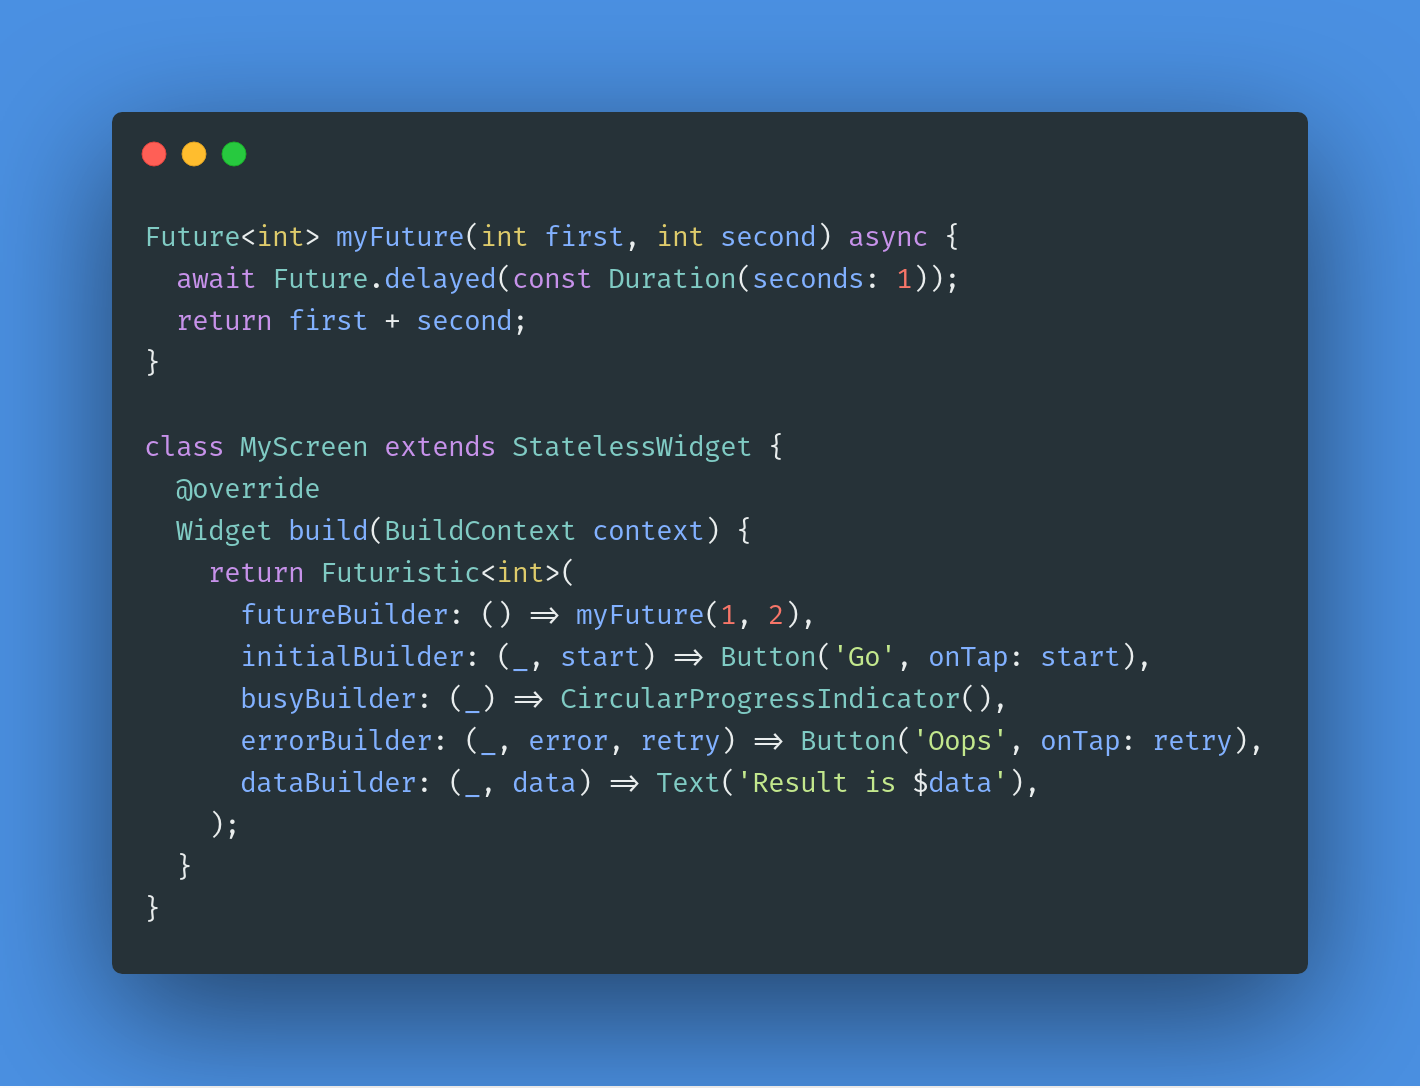
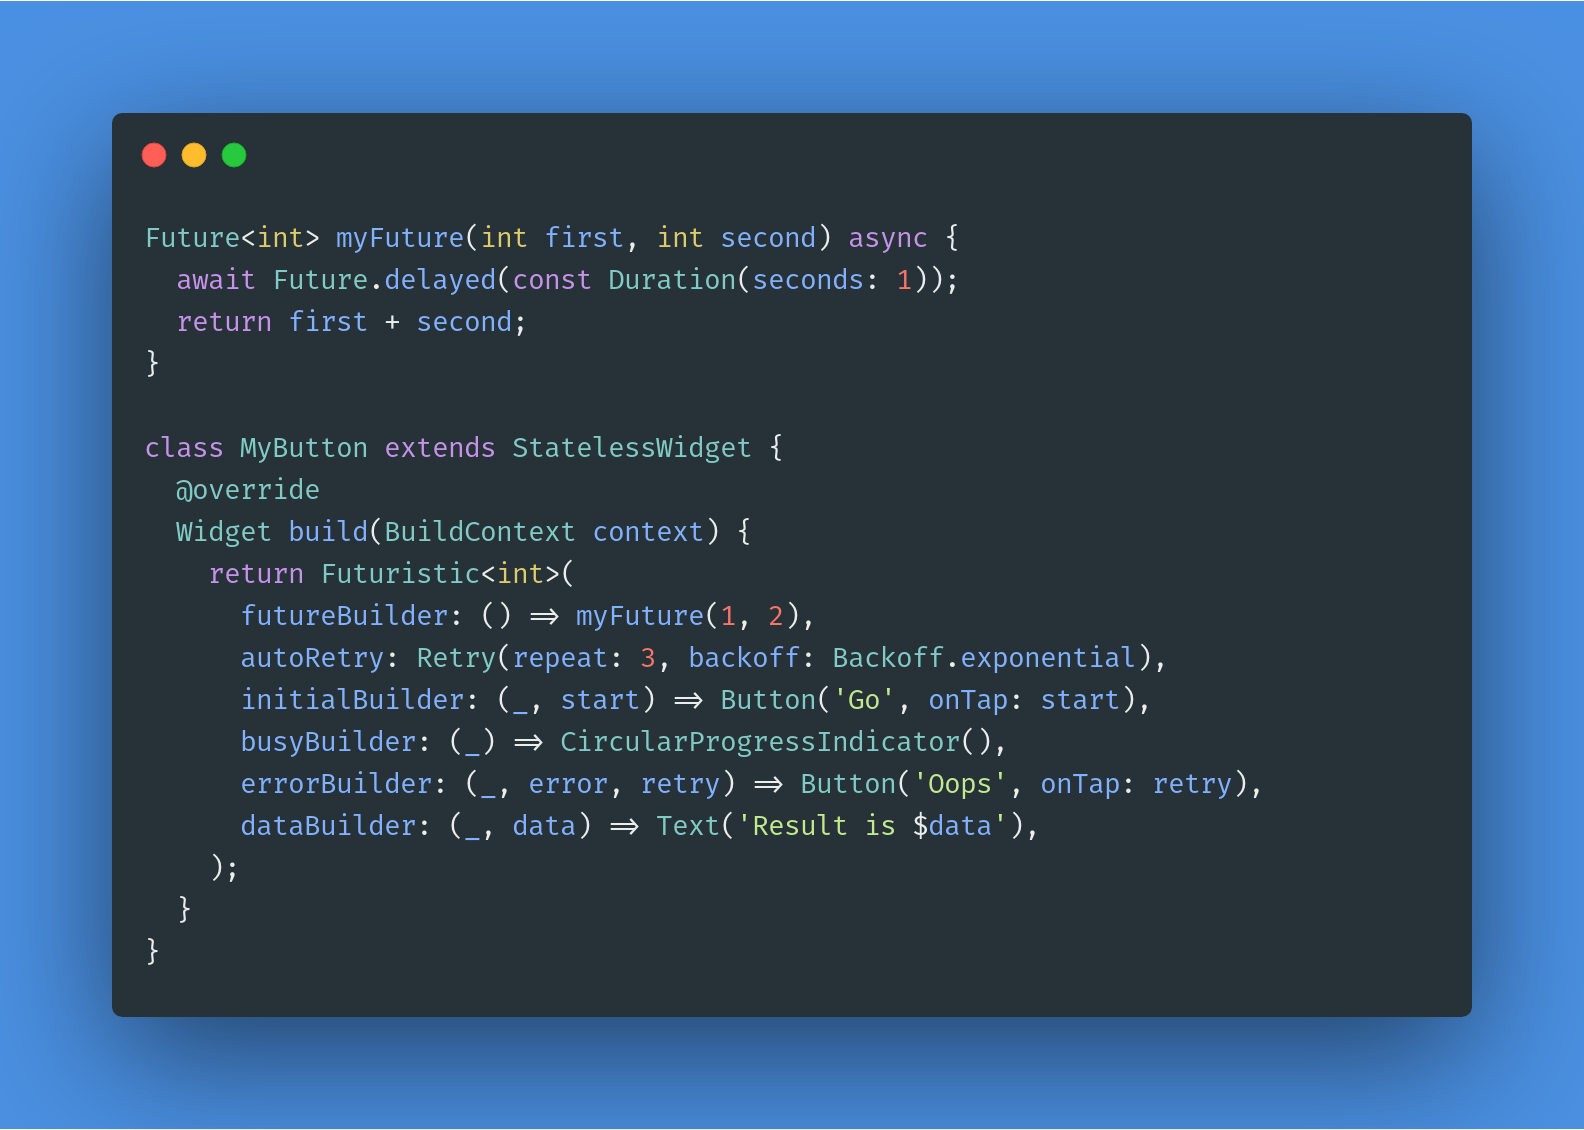
Updated screenshot and readme to include retry

Changed region(s): [[0.062, 0.0938, 0.9296, 0.9062], [0.1239, 0.75, 0.1549, 0.7812]]

diff --git a/README.md b/README.md
@@ -55,7 +55,7 @@ class _HomeState extends State<Home> {
 
 ## Solution
 
-The problem with `FutureBuilder` is, ironically, that it takes a `Future` instance as its input. Instead, the `Futuristic` widget takes a `Function` that *returns* a `Future` and holds onto it in its own `State`. This means:
+The problem with `FutureBuilder` is, ironically, that it takes a `Future` instance as its input. As soon as a `Future` function is invoked, it starts executing. Instead, the `Futuristic` widget takes a `Function` that *returns* a `Future` and holds onto it in its own `State`. This means:
 
 * It can be used in a `StatelessWidget`.
 * It can let child widgets **start** or **retry** a `Future`.
@@ -63,7 +63,8 @@ The problem with `FutureBuilder` is, ironically, that it takes a `Future` instan
 Additionally, `Futuristic` provides:
 
 * Multiple builder callbacks to provide mutually exclusive `initial/busy/data/error` widget states.
-* Optional `onData/onError` callbacks to perform additional actions when a `Future` succeeds or fails.
+* Optional automatic retry with customizable repeat count, delay, and backoff type.
+* Optional `onData/onError/onRetry` callbacks to perform additional actions when a `Future` succeeds, fails, or auto-retries.
 * Generic type safety for the `data` provided to callbacks. The type parameter `<T>` can be omitted if it can be inferred from the `futureBuilder` function.
 
 ## Usage
@@ -86,6 +87,7 @@ class MyButton extends StatelessWidget {
     return Futuristic<int>(
       futureBuilder: () => myFuture(1, 2),
       initialBuilder: (context, start) => RaisedButton(child: Text('Go'), onPressed: start),
+      autoRetry: Retry(repeat: 3, filter: (e) => e is TimeoutException),
       busyBuilder: (context) => CircularProgressIndicator(),
       errorBuilder: (context, error, retry) => RaisedButton(child: Text('Oops'), onPressed: retry),
       dataBuilder: (context, data) => Text(data.toString()),
@@ -97,9 +99,11 @@ The `futureBuilder` parameter is required.
 
 The `initialBuilder` parameter is required if `autoStart` is false (see example below).
 
+The optional `autoRetry` parameter take a `Retry` instance that tells `Futuristic` how to automatically retry the `Future` in case of a failure. `repeat` is the number of times to retry, `delay` is how long to wait between retries, `backoff` is `linear`/`exponential`, and `filter` is a function that controls whether an error should be retried.
+
 The optional `busyBuilder` displays a widget when the `Future` is busy executing. By default, it shows a centered `CircularProgressIndicator`. By displaying this, we inform the user that the operation is in progress and also prevent the `Future` from being triggered twice accidentally. 
 
-The optional `errorBuilder` displays a widget when the `Future` has failed, typically with an `Error` or `Exception`. This is provided as a parameter, together with a `retry` function that can be called to "retry" the `Future`.
+The optional `errorBuilder` displays a widget when the `Future` has failed, typically with an `Error` or `Exception`. This is provided as a parameter, together with a `retry` function that can be called to "retry" the `Future`. If `autoRetry` is used, this will be called after the final error.
 
 The optional `dataBuilder` displays a widget when the `Future` has succeded. The resulting `T` value of the `Future<T>` is provided as a parameter to the callback. Note that this will be `null` in the case of a `Future<void>`.
 
@@ -119,10 +123,12 @@ class MyScreen extends StatelessWidget {
   Widget build(BuildContext context) {
     return Futuristic<int>(
       autoStart: true,
+      autoRetry: Retry(),
       futureBuilder: () => myFuture(1, 2),
       busyBuilder: (context) => CircularProgressIndicator(),
       onError: (error, retry) => showDialog(...),
       onData: (data) => showDialog(...),
+      onRetry: (error, delay, remaining) => log(...),
     );
   }
 }
@@ -133,3 +139,5 @@ The `futureBuilder` parameter is required.
 The optional `onError` callback can be used to handle the error event by displaying an alert dialog or sending to a logging provider, for example. It can be used in place of or together with the `errorBuilder`. A `retry` function is provided as a parameter that can be called to "retry" the `Future`. Be careful not to call `retry` without user interaction to avoid creating an infinite loop. This callback will **not** be retriggered as a result of a widget rebuild.
 
 The optional `onData` callback can be used to handle a successful result by displaying an alert dialog or performing navigation. for example. This can be used in place of or together with the `dataBuilder`. This callback will **not** be retriggered as a result of a widget rebuild.
+
+The optional `onRetry` callback is called every time the `Future` is automatically retried, and can be used for logging purposes. The `error` parameter contains the error object, the `delay` parameter contains the `Duration` until the next try, and the `remaining` parameter contains the number of tries remaining. Can only be used if `autoRetry` is true.
